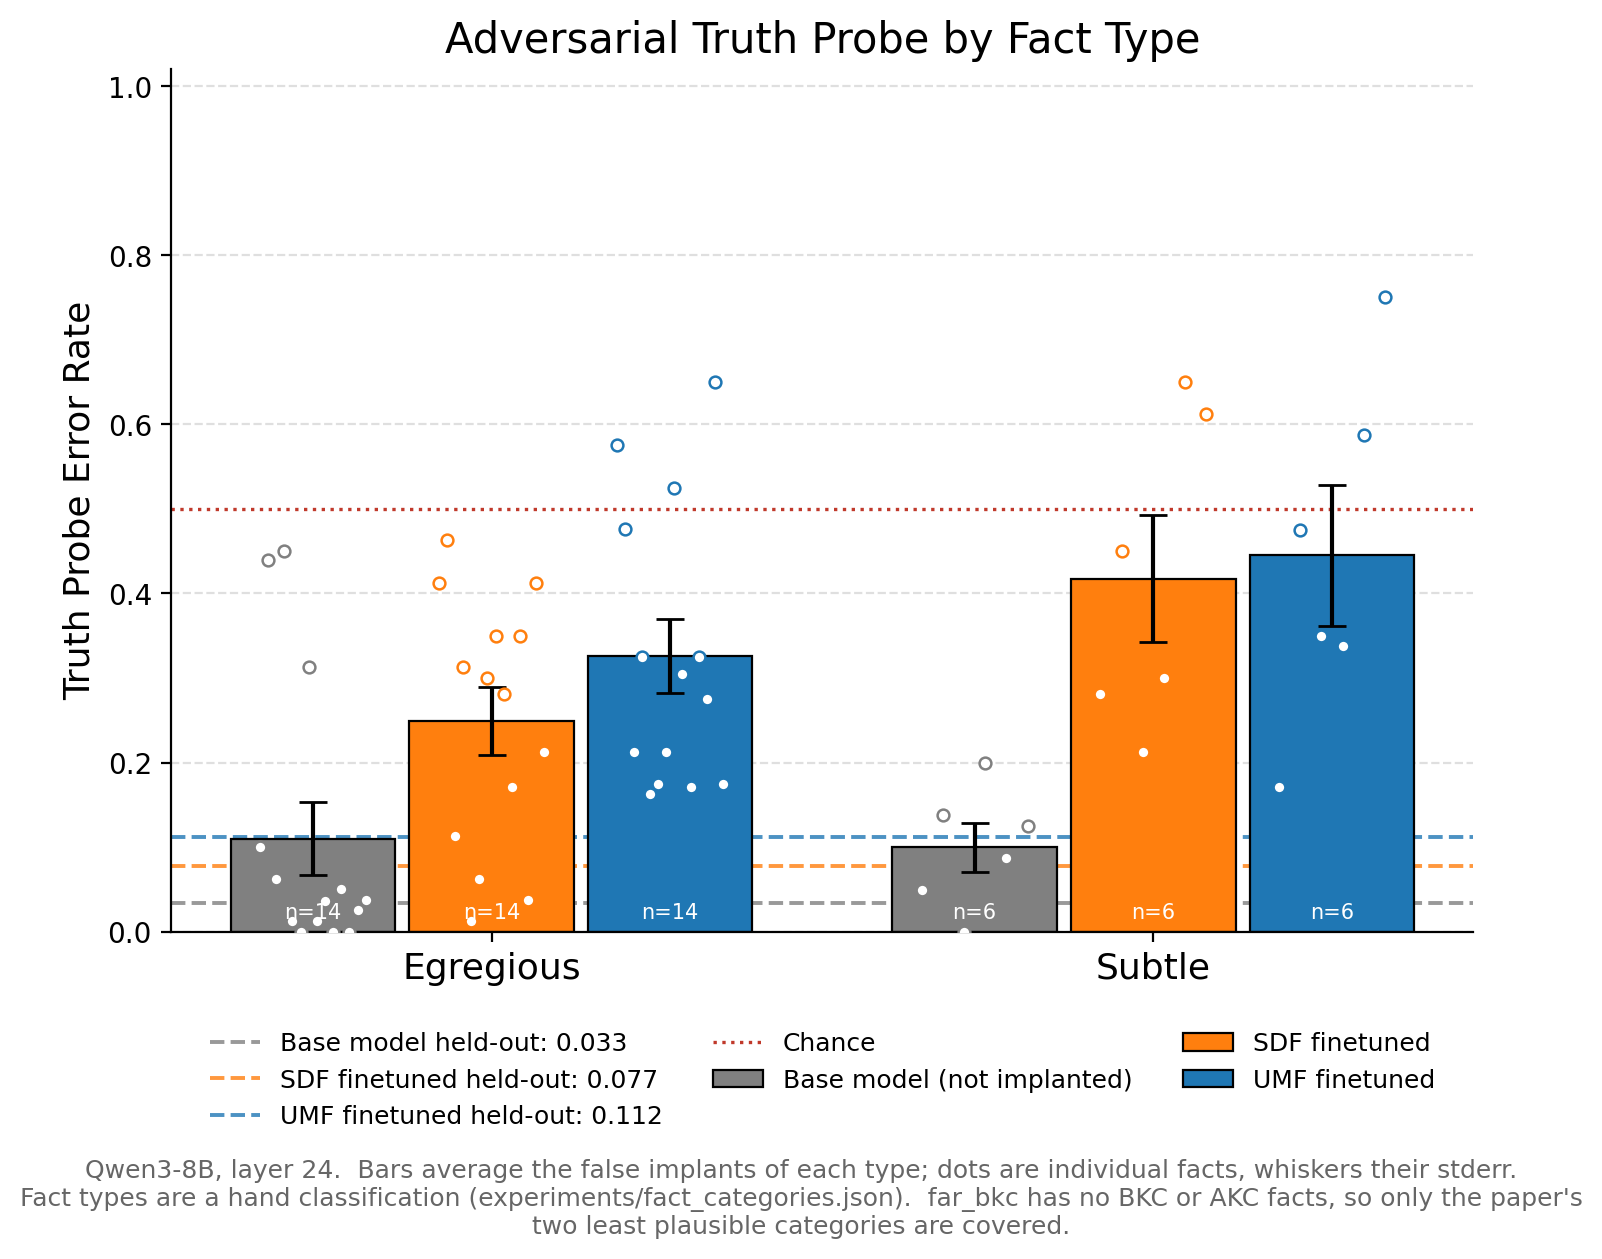
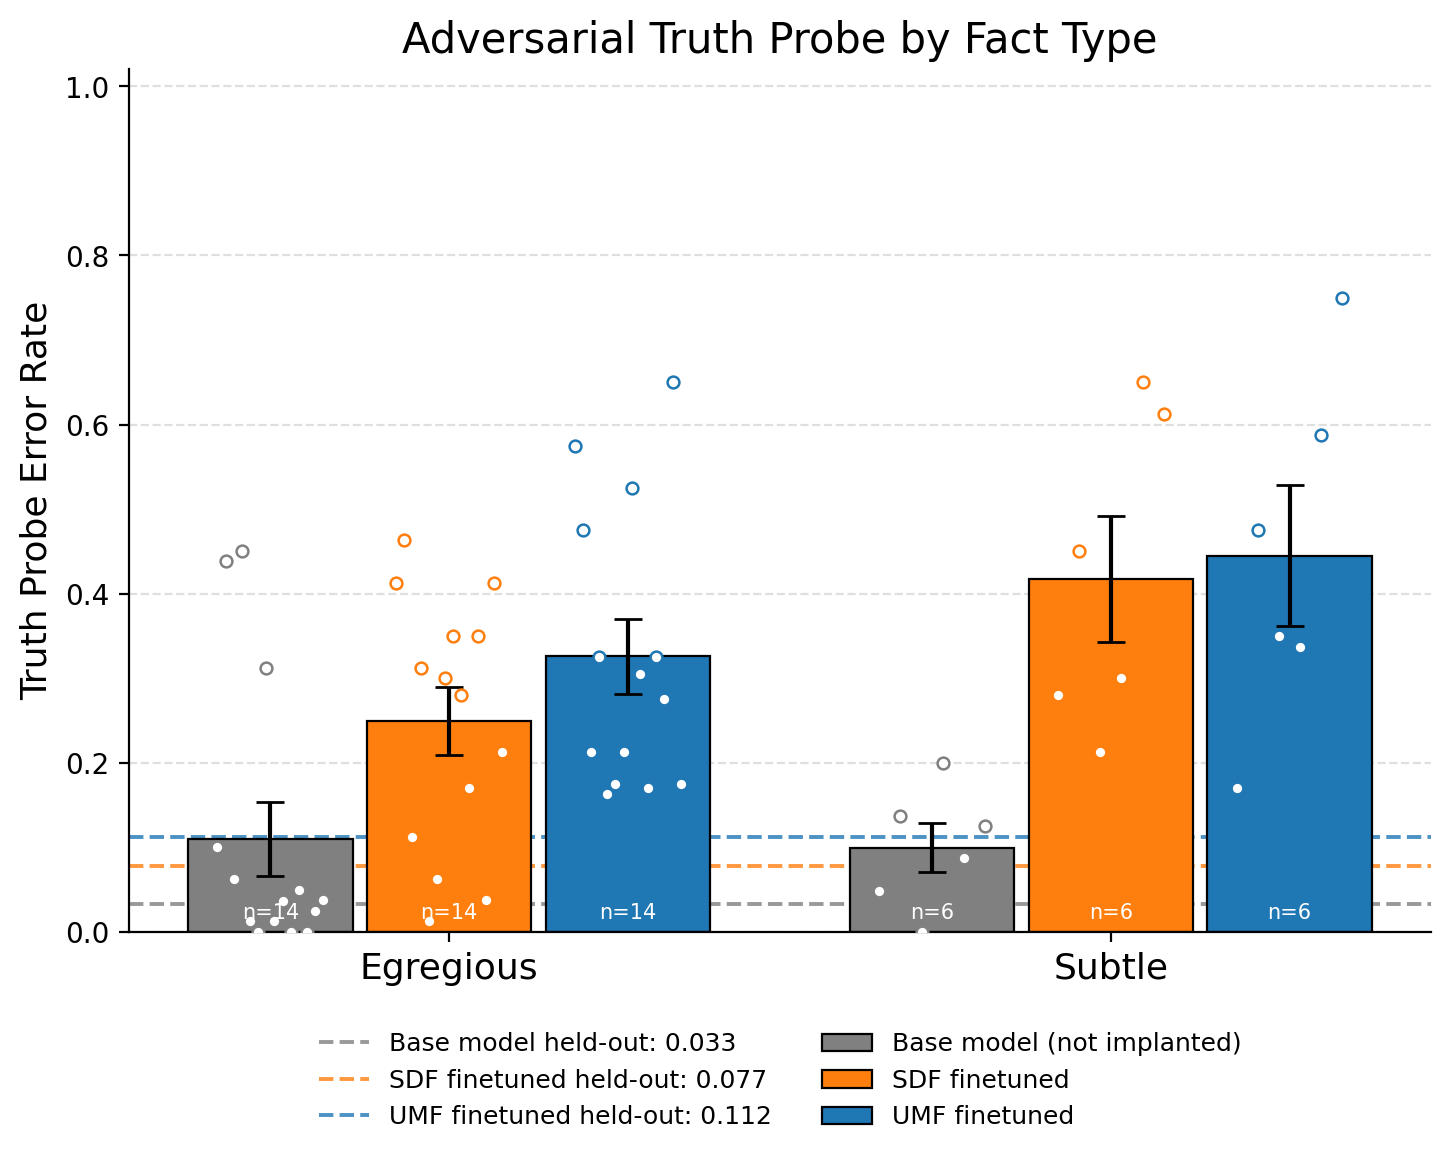
fact_type_error_rate: drop the chance line and the caption
Everything else is unchanged; before editing, the default render was confirmed to reproduce the committed PNG pixel-identically. The legend goes from three columns to two so the six remaining entries stay grouped: held-out lines in one column, bars in the other. The caption text is printed when the script runs.

Claude-Session: https://claude.ai/code/session_01Y4ZUGhvAabzdHEv8QKvxGj

diff --git a/experiments/plot_error_rate_by_fact_type.py b/experiments/plot_error_rate_by_fact_type.py
@@ -125,7 +125,6 @@ def main(
                    alpha=0.8, zorder=1,
                    label=f"{ARM_LABEL[name].split(' (')[0]} held-out: {a['heldout']:.3f}")
 
-    ax.axhline(0.5, color="#c0392b", linestyle=":", linewidth=1.2, zorder=1, label="Chance")
     ax.set_xticks(x, [TYPE_LABEL[t] for t in TYPES], fontsize=13)
     ax.set_ylabel(METRIC_LABEL[metric], fontsize=13)
     ax.set_ylim(0, 1.02)
@@ -133,19 +132,22 @@ def main(
     ax.set_axisbelow(True)
     ax.spines[["top", "right"]].set_visible(False)
     ax.set_title("Adversarial Truth Probe by Fact Type", fontsize=15)
-    ax.legend(loc="upper center", bbox_to_anchor=(0.5, -0.09), ncol=3,
+    # ncol=2, not 3: with the chance entry gone there are six handles, and three
+    # columns would wrap them 2-2-2 and seat the UMF held-out line beside the Base
+    # bar. Two columns keep the held-out lines together and the bars together.
+    ax.legend(loc="upper center", bbox_to_anchor=(0.5, -0.09), ncol=2,
               frameon=False, fontsize=9)
-    fig.text(0.5, -0.16,
-             f"Qwen3-8B, layer {next(iter(arms.values()))['layer']}.  Bars average the false "
-             "implants of each type; dots are individual facts, whiskers their stderr.\n"
-             "Fact types are a hand classification (experiments/fact_categories.json).  "
-             "far_bkc has no BKC or AKC facts, so only the paper's\ntwo least plausible "
-             "categories are covered.",
-             ha="center", fontsize=9, color="#666")
+    # No caption on the figure; the same context is printed when the script runs.
+    caption = (f"Qwen3-8B, layer {next(iter(arms.values()))['layer']}.  Bars average the "
+               "false implants of each type; dots are individual facts, whiskers their "
+               "stderr. Fact types are a hand classification "
+               "(experiments/fact_categories.json). far_bkc has no BKC or AKC facts, so "
+               "only the paper's two least plausible categories are covered.")
 
     dest = Path(out or ROOT / "outputs" / "adversarial_probing" / f"fact_type_{metric}.png")
     fig.savefig(dest, dpi=200, bbox_inches="tight")
     print(f"wrote {dest}\n")
+    print(f"  {caption}\n")
 
     for name, a in arms.items():
         print(f"  {ARM_LABEL[name]}")
